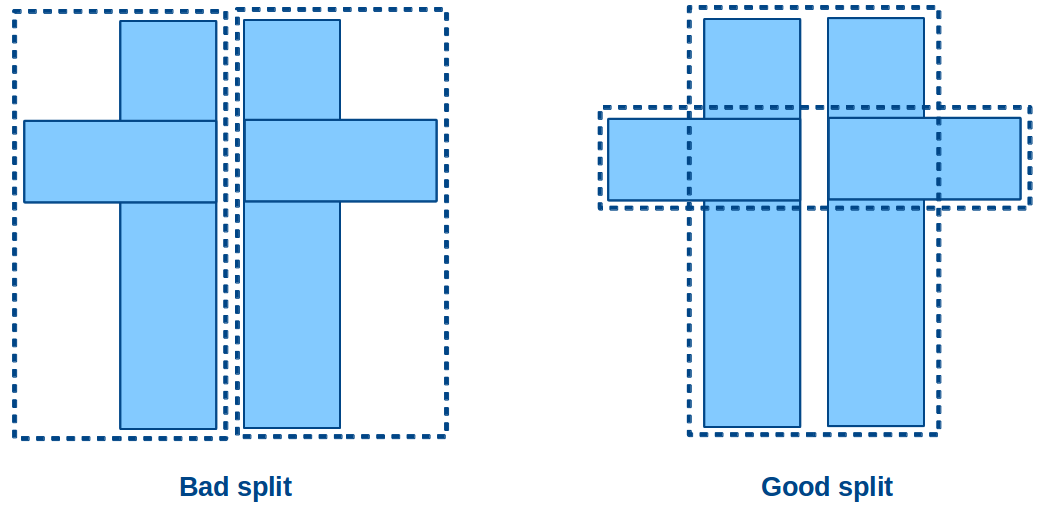
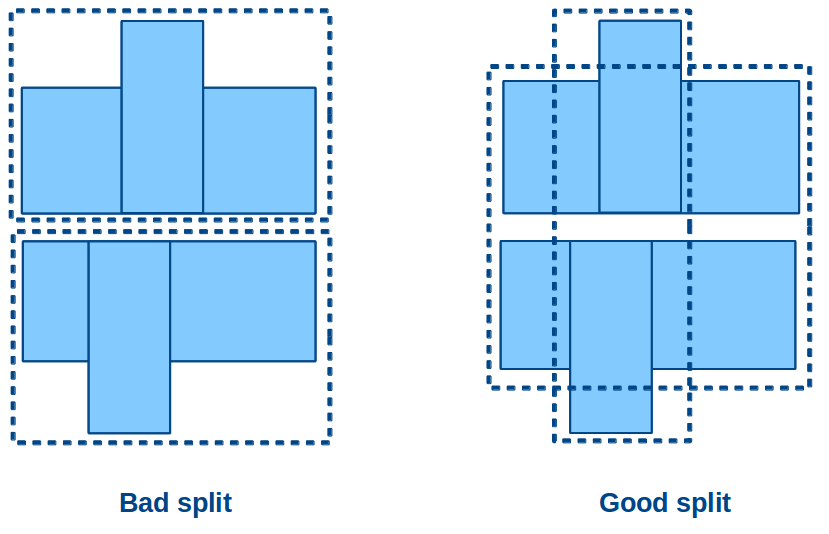
the new changes regarding kdbtree k+tree and R

diff --git a/writing/Tex/GeoSpatialinBaseX.tex b/writing/Tex/GeoSpatialinBaseX.tex
@@ -281,7 +281,7 @@ and balancing. We discuss some of these invariants in the followings.
 
 \begin{figure}
 \centering
-\includegraphics[width=0.8\textwidth]{kdtree}
+\includegraphics[width=0.8\textwidth]{kd-Tree}
 \caption{A representation of KD-tree}
 \label{figkdtree}
 \end{figure}
@@ -299,11 +299,11 @@ Although this space partitioning is similar to KD-tree, more than one nodes can 
 Then, these pages are stored as nodes of KD-tree.
 KDB-tree has two basic structures: region page containing $(r, c)$ and point page containing $(p, l)$. A region page as an internal node contains a description of the bounding region $r$ enclosing its children and the reference $c$ to the children. 
 %\todo the figure is not correct.
-As shown in Figure~\ref{figkdbtree}, $C$, $D$, and $E$ subspaces are disjoint and together they shape region $A$ parent node.
+As shown in Figure~\ref{figkdbtree}, $D$, $E$, $F$, and $G$ subspaces are disjoint and together they shape region $A$ parent node.
 A point page as a leaf node carries the object identifiers: the point $p$ and the location $l$.
 Therefore, different pages are kept in different regions instead of the whole storage of the indexing tree. 
-It should be mentioned that there is a trade off between being height-balanced and the storage efficiency.
-Then it can happens that the storage efficiency become poorer in some cases. 
+It should be mentioned that there is a trade-off between being height-balanced and the storage efficiency.
+Then, the storage efficiency can be poorer in some cases. 
 
 \begin{figure}
 \centering
@@ -312,56 +312,72 @@ Then it can happens that the storage efficiency become poorer in some cases.
 \label{figkdbtree}
 \end{figure}
 
-Since splitting the regions in KDB-tree results in sparse nodes at lower levels, HB-tree (holey brick B-tree)~\cite{hbtree1} as a multi-attribute index structure is proposed. HB-tree solves this prolem by allowing data spaces to be holey and consequently to be non-rectangular. 
-It means the subspaces without data could be extracted from a region. To represent the holey regions, HB-tree uses KD-tree within internal nodes to organize the information about the lower levels. It might happen that a region is referenced by more than one leaf of KD-tree in internal nodes of HB-tree. In HB-tree leaf nodes are called \textit{data nodes} and internal nodes are \textit{index nodes}. 
+Since splitting the regions in KDB-tree results in sparse nodes at lower levels, HB-tree (holey brick B-tree)~\cite{hbtree1} as a multi-attribute index structure is proposed to solve this prolem. HB-tree allows data spaces to be divided along more than one dimension. It permits rectagular holes inside a data space  by partitioning along pieces of several dimensions. This gives more flexibility in patitioning and serves as a solution for the cases where partitioning a region along one entire dimension forces splitting of the children subregion. Also, this structure helps to distribute the objects in subspaces more evenly when it is ot possible by cutting across one dimension. This point is illustrated in Figure~\ref{hbtree}.
+
+\begin{figure}
+\centering
+\subfigure[Single-dimensional split of data points]{
+\includegraphics[width=0.22\textwidth,height=0.13\textheight]{hbtree1}
+%\caption{R-tree structure}
+\label{hbsplita}
+}
+\centering
+\subfigure[Two-dimensional split of data points]{
+\includegraphics[width=0.22\textwidth,height=0.13\textheight]{hbtree2}
+%\caption{R-tree}
+\label{hbsplitb}
+}
+\caption{Partitioning of data space in HB-tree}
+\label{hbtree}
+\end{figure}
+
+To represent the holey regions, HB-tree uses KD-tree within internal nodes to organize the information about the lower levels. It means that more complex data structure is required to represent a node. In addition, it might happen that a region is referenced by more than one leaf of KD-tree in internal nodes of HB-tree (see Figure~\ref{fighbtree}). This implies that this structure is not exactly a tree. 
+
+\begin{figure}
+\centering
+\includegraphics[width=0.65\textwidth,height=0.2\textheight]{hbtree}
+\caption{A representation of HB-tree (source~\cite{hbtree1})}
+\label{fighbtree}
+\end{figure}
+
+%In HB-tree leaf nodes are called \textit{data nodes} and internal nodes are \textit{index nodes}. 
 %Index nodes  
-%A data space can be non-rectangular and space representation in internal nodes is by KD-trees. The leaf nodes are known as data nodes and the internal node as index nodes. An index node data space is a union of its child node subspaces which are obtained through KD-tree recursive partitioning. 
+%A data space can be non-rectangular and space representation in internal nodes is by KD-trees. The leaf nodes are known as data nodes and the internal node as index nodes. An index node data space is a union of its child node subspaces which are obtained through KD-tree recursive partitioning.
 As~\cite{hbtree1} states, this structure by removing the sparse nodes of the KDB-tree, gives beter search and insert performance and decent space utilization. Nevertheless, expensive deletion and splitting are and multiple references to a data node that may lead to more than one traversal of a path are trade-off.
 
-Since KD-trees are designed as a point access method, its variant structure introduced by Matsuyama et al~\cite{matsuyama} is suitable for non-point objects via adding an extensive duplication strategy. In KD-tree, a data page is associated to each leaf nodes and reference to the objects totally or partially contained in it. Those objects which overlaps multiple data spaces are duplicated in all corresponding data pages. Then, the point is due to duplicated storage which means this structure is not appropriate for data with large objects.
+Since KD-trees are designed as a point access method, the variant structure introduced by Matsuyama et al~\cite{matsuyama} is suitable for non-point objects via adding an extensive duplication strategy. In KD-tree, a data page is associated to each leaf nodes and reference to the objects totally or partially contained in it. Those objects which overlaps multiple data spaces are duplicated in all corresponding data pages. Then, the point is due to duplicated storage which means this structure is not appropriate for data with large objects.
 
-Another interesting extension of KD-tree is 4D-tree~\cite{4dtree}.
-In order to index two-dimensional objects, 4D-tree maps objects into four-dimensional points in KD-tree. It means a rectangle $(x_1, y_1)$, $(x_2, y_2)$ is considered as a point $(x_1, y_1, x_2, y_2)$. The discriminator is chosen repeatedly from the set $(x_1, y_1, x_2, y_2)$. 
+Another extension of KD-tree to make it useful to index two-dimensional objects is 4D-tree~\cite{4dtree}.
+4D-tree maps objects into four-dimensional points in KD-tree. It means a rectangle $(x_1, y_1)$, $(x_2, y_2)$ is considered as a point $(x_1, y_1, x_2, y_2)$. The discriminator is chosen repeatedly from the set $(x_1, y_1, x_2, y_2)$. 
 For each node, a discriminator, a discriminator value and pointers to two children are stored. 
 For a region search $(qx_1, qx_2, qy_1, qy_2)$, depending on the discriminator, the result of one of the operators,
-$$x_1 \leq qx_2, \quad x_2 \geq qx_1, \quad y_1 \leq qy_2, \quad y^2 \geq qy^1,$$ 
+$$x_1 \leq qx_2, \quad x_2 \geq qx_1, \quad y_1 \leq qy_2, \quad y_2 \geq qy_1,$$ 
 determines which subtree (or both) has to be searched.
 The major problem of this approach is the high cost of its intersection search when a query region lies in a subspace that cannot not bounded tightly using the discriminator values. In such cases both subtrees have to be traversed and this will be very costly.
 
-SKD-tree: The spatial kd-Tree alters the kd-tree in a way that objects are indexed by their centroid and the minimum bounding box of the object is also stored in the node. This structure is suitable for non-point spatial objects. In a kd-tree the objects which are contained in more than one space, will be referenced more than once. To avoid the duplication virtual subspaces are defined which include the original subspaces. So, each object are placed in the subspace based on its centroid.
-With this division, we just need one more value for each subspace which shows min/max values along the dimension of the discriminator. Therefore, the structure of each node would consist of:
-Two children
-The discriminator and it's value
-The max/ min value of objects left(LOSON)/right(HISON) subspaces along with dimension of the discriminator
-The maximum/minimum value of LOSON/HISON the nearest virtual line which bounds the data whose centroid are inside the LOSON/HISON.
-
+The Spatial KD-Tree (SKD-tree)~\cite{skdtree} alters KD-tree in a way such that object duplication and object mapping is avoided. Similar to 4D-tree, it proposed to handle non-point (non-zero sized) spatial objects. In KD-tree, extended data object may extend in more than one subspace. To avoid those objects to be divided and referenced multiple times, SKD-tree defines a subspace for each original space. These virtual spaces determine the bounding area of all objects with the centroid inside the left and right subspace respectively. The objects will be placed in subspaces based on their centroid. Therefore, for each node contains the following parts~\cite{skdtreebook},
+\begin{itemize}
+\item Pointers to two children
+\item The level discriminator
+\item The level discriminator value
+\item The maximum and minimum values of the left and right subtree objects respectively, in the dimension that discriminator belongs to
+\end{itemize}    
+As Chin et al~\cite{survey} states, the SKD-tree directory is stored in secondayr memory. Figure~\ref{figskdtree} illustrates the way that minimum and maximum boundries of each space is determined to shape a virtual subspace. In this example, for the root node which divides the space by $x_6$ value, $x_7$ value, bounding $r_3$ object, and $x_5$ value, bounding $r_8$ rectangle, are the maximum and minimum $x$ values for the left and right subspace respectively.
+\begin{figure}
+\centering
+\includegraphics[width=0.7\textwidth,height=0.6\textheight]{skdtree}
+\caption{An example of the SKD-tree structure (source~\cite{survey})}
+\label{figskdtree}
+\end{figure}
 During traversal a rectangular space is associated with each node and materialized  such that is tested against the query region if it intersects the region. 
-(Since the virtual boundary may sometimes bound the objects tighter than the partitioning line, the intersection search takes advantage of the existing virtual boundary to prune the search space efficiently. To further exploit the virtual boundaries, containment search which retrieves all spatial objects contained in a given query rectangle was proposed. During tree traversal, the algorithm always selects the boundaries that yield smaller search space. The direct support of containment search is useful to operators like within and contain. The search rapidly eliminates all objects that are not totally contained in the query region.)
-The Sdk-tree is memory-based, not a disk-based, data structure, thus is not suitable for very large databases.
+Using the virtual boundaries SKD-tree is at the advantage when virtual boundary may sometimes bound the objects tighter than the partitioning line. In such cases the intersection search cuts the search space efficiently. ?? The containment search is directly supported in this structure and is useful to operators like within and contain, since all objects not contained totally in the query region is ignored.
+Since Sdk-tree is memory-based, not a disk-based, data structure, it is not suitable for very large databases.
 
 %Main memory storage of the index trees are mostly a problem, since it is too big to be placed there  [survay]. Hence, the storage has to be done into disk space. Using binary search tree paging techniques [CeS82 survay] or tree organization of B-trees [BaM72 survay] to store the kd-Tree proposes new indexing structures.
 %Using properties of both kd-tree and B-tree [reference], the KDB-tree rebuilds the kd-tree to improve some inefficiencies of it.  It means benefits of the balanced kd-trees and the I/O efficiency of B-trees are together. It uses the disk space to bring the kd-tree on disk. 
 
-\begin{figure}
-\centering
-\includegraphics[width=0.8\textwidth]{kdbtree}
-\caption{A representation of KDB-tree (source: \cite{kdbtree})}
-\label{figkdbtree}
-\end{figure}
  
-\begin{figure}
-\centering
-\includegraphics[width=0.8\textwidth]{hbtree}
-\caption{A representation of HB-tree (source: \cite{hbtree1})}
-\label{fighbtree}
-\end{figure}
 
-\begin{figure}
-\centering
-\includegraphics[width=0.8\textwidth]{skdtree}
-\caption{SKD-tree}
-\label{figskdtree}
-\end{figure}
 
 \subsubsection{B-tree based Indexing Technique}
 \label{b-tree-based}
@@ -380,17 +396,17 @@ and the corresponding R-tree is shown in Figure~\ref{rtreestruct}.
 \begin{figure}
 \centering
 \subfigure[Minimum bounding rectangles of an object set to build R-tree]{
-\includegraphics[width=0.47\textwidth]{Rtree-box}
+\includegraphics[width=0.47\textwidth,height=0.19\textheight]{Rtree-box}
 %\caption{R-tree structure}
 \label{rtreebox}
 }
 \centering
 \subfigure[R-tree structure]{
-\includegraphics[width=0.47\textwidth]{Rtree}
+\includegraphics[width=0.47\textwidth,height=0.19\textheight]{Rtree}
 %\caption{R-tree}
 \label{rtreestruct}
 }
-\caption{A sample  of R-tree creation for a set of data objects in 2D}
+\caption{A sample of R-tree creation for a set of data objects in 2D}
 \label{rtree}
 \end{figure}
 
@@ -404,8 +420,8 @@ The challenging point about R-tree is partitioning the area with MBRs to build t
 
 \begin{figure}
 \centering
-\includegraphics[width=0.7\textwidth,height=0.19\textheight]{R-treeMBR}
-\caption{Two different split strategies in R-tree}
+\includegraphics[width=0.5\textwidth,height=0.17\textheight]{R-treeMBR}
+\caption{Two different split strategies in R-tree (created based on~\cite{rtree})}
 \label{rtreesplit}
 \end{figure}
 
@@ -413,7 +429,7 @@ As mentioned before, the idea of bounding rectangles helps to decide which parts
 
 \begin{figure}
 \centering
-\includegraphics[width=0.8\textwidth]{Rtree-query}
+\includegraphics[width=0.6\textwidth,height=0.2\textheight]{Rtree-query}
 \caption{Querying R-tree}
 \label{rtreequery}
 \end{figure}
@@ -431,7 +447,7 @@ To avoid the above-mentioned problems of R-tree, $R^+$-tree~/cite{Sellis:rplustr
 
 \begin{figure}
 \centering
-\includegraphics[width=0.8\textwidth]{r+tree}
+\includegraphics[width=0.9\textwidth]{r+tree}
 \caption{An {$R^+$-tree} example}
 \label{r+tree}
 \end{figure}
@@ -439,7 +455,7 @@ To avoid the above-mentioned problems of R-tree, $R^+$-tree~/cite{Sellis:rplustr
 With the changes made in structure, {$R^+$-tree} is at some advantages. Point query performance benefits from abscence of overlappings and instead of several paths, a single path is traversed and consequently fewer nodes are visited in queries. On the other hand, there are some disadvantages. 
 %The duplication of the objects avoids overlapping and consequently leads to less path traversals in point queries. 
 %On the other hand there is some disadvantages: 
-{$R^+$-tree} might be bigger than R-Tree as a result of duplicated rectangle. Additionally, construction and maintenance are more complex.  
+{$R^+$-tree} might be bigger than R-Tree as a result of duplicated rectangle. Additionally, construction and maintenance are more complex. In addition, more complex deletion algorithm is another drawback of the approach of avioding overlaps.  
 According to Günther~\cite{efficientstruct} there is another problem in {$R^+$-tree} algorithm which could happen in some insertions. The problematic case happens when the covering rectangles do not do not allow each other from expanding to include the inserted object. It means there are some spaces, called \textit{dead spaces}, in the current structure that cannot be covered. If a new object places in those regions, it cannot be fully covered. To cover the uncovered areas, one or more rectangles have to be split and this leads in split of some children as well. This case may degrade the storage efficiency. However, Chin et al~\cite{survey} states that in general {$R^+$-tree} perform better for smaller objects and slightly worse off for larger objects.
 %In performance study, in the comparison between R-trees and R+-trees, it is found that the R+-tree requires much more splits, especially for large data objects, but lesser splits for smaller data objects. 
 
@@ -449,7 +465,7 @@ To avoid the overlapping problem of R-tree and \textit{dead spaces} in $R^+$-tre
 \begin{figure}
 \centering
 \includegraphics[width=0.7\textwidth]{CellTree}
-\caption{An Example of a cell tree}
+\caption{An Example of a cell tree (source~\cite{survey})}
 \label{figcelltree}
 \end{figure}
 
@@ -463,7 +479,7 @@ In order to improve achieve better performance, $R^*$-tree~\cite{rstartree} goes
 \item minimizing the MBR margins to shape squarish/quadratic rectangles which improve the performance of queries with large quadratic shapes.
 \item Maximizing of storage utilization. 
 \end{itemize}
-
+In fact, unlike R-tree which determines the MBRs according to their area, $R^*$-tree determines them based on theier area, margins of space, and overlap with other MBRs. Additionally, \textit{Forced Reinsertion} is a key concept in this algorithm which delets and reinserts elements of a full node to prevent splits.
 To find the best combination of the criteria, it is necessary to implement an approch, since the criteria can conflict sometimes. The optimizations is obtained with revised node split and also forced reinsertion which finds a better place for a node than its original place. This revised structure result in the following performance improvements,
 \begin{itemize}
 \item More rectangular pages produced by the revised split algorithm are better for many applications.
@@ -500,7 +516,15 @@ Another paking algorithm to build static R-tree is Sort-Tile-Recursive (STR)~\ci
 As stated in \cite{strtree} this structure, as well as the other packing structures such as \textit{Nearest-X} and \textit{Hilbert Sort}, improves the space utilization and query performance. 
 
 \textbf{X-tree}
-X-tree, proposed by Berchtold et al~\cite{xtree}, is another extension to support high-dimensional data processing and focuses on prevention of MBRs overlaps. In this structure, if the split leads to large overlap, ...
+X-tree, proposed by Berchtold et al~\cite{xtree}, is another extension to support high-dimensional data processing. X-tree focuses on prevention of MBRs overlaps in order to minimize the amount of paths that have to be traversed. Unlike $R^+$-tree, this approach does not split a data region. Instead, follows more complex algorithm by analyzing the size of overlap occured for each split. Then, decides on choosing the minimum overlap or creating a new kind of node, called \textit{supernode}. \textit{Supernode} refers to internal nodes which containing more data values and pointers than maxmimum capacity of normal nodes (see Figure~\ref{figxtree}). This will help to decrease the tree levels and consequently improve search queries efficiency.
+
+\begin{figure}
+\centering
+\includegraphics[width=0.7\textwidth]{xtree}
+\caption{Structure of the X-tree}
+\label{figxtree}
+\end{figure}
+
 \subsubsection{Space Filling Index structures}
 \label{quad-tree-based}
 Among this category of structures, here we explain briefly Quad-tree~\cite{quadtree} as the one describing hierarchial spatial data structure whichis based on theprinciple of recursive decomposition, like some of the forementioned structures. The goal of this design was to design a structure in main memory and only for two-dimensional data. The common structure, called \textit{region Quad-tree} is based on the subdivision into four equal-size quadrants. It means each internal node has four children. The spaces may have rectangular or any arbitraty shape. The leaf nodes represent the corresponding data contained in a region. 
